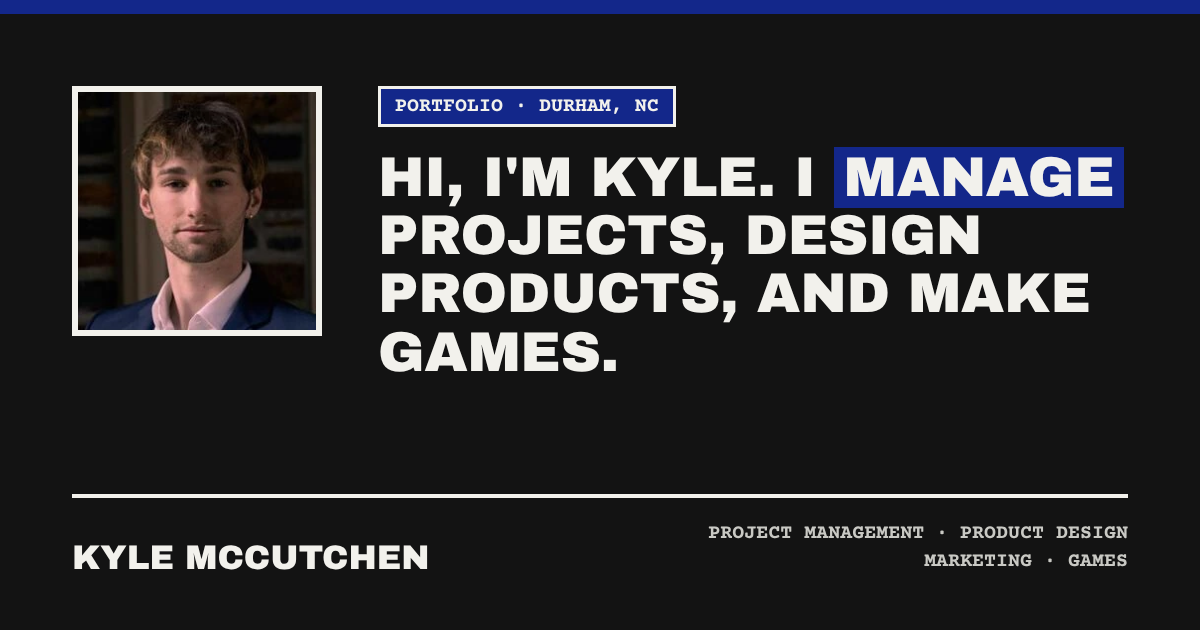
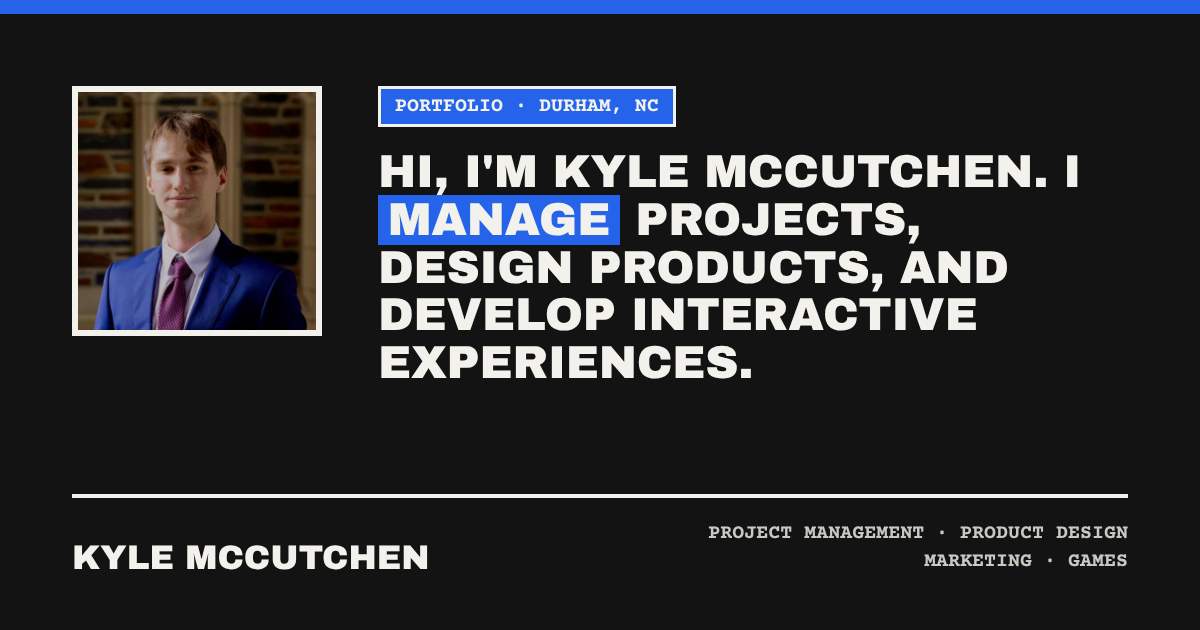
New headshot, Creative Director title, interactive experiences wording
Claude-Session: https://claude.ai/code/session_01KrK3kDgW3ZqdmRvWk1oTHi

diff --git a/game-dev/audio.html b/game-dev/audio.html
@@ -32,7 +32,7 @@
 <section class="hero"><div class="wrap" style="padding-block:56px;">
   <div class="tagbox">Audio design</div>
   <h1>Making <span class="flip">sound</span> for games</h1>
-  <p class="bio">I'm the Lead Audio Designer on Project Gravity, a two-year game we're making at Cosmic Labs with an 18-person team. Below is some of the sound library I've been building for it, plus a demo I made of reactive, spatial audio in Unreal Engine.</p>
+  <p class="bio">I'm Creative Director at Cosmic Labs, where I started as Lead Audio Designer on Project Gravity, a two-year game we're making with an 18-person team. Below is some of the sound library I've been building for it, plus a demo I made of reactive, spatial audio in Unreal Engine.</p>
 </div></section>
 
 <article class="cs-body"><div class="wrap">
@@ -40,11 +40,11 @@
   <section class="cs-section">
     <div>
       <h2><span class="n">Featured</span>Audio design process</h2>
-      <ul class="meta-list"><li>Project Gravity · Cosmic Labs</li><li>Lead Audio Designer · Project Manager</li><li>Manage 2 sound designers + 2 composers (UNCSA)</li><li>Ableton · Wwise · Unreal</li></ul>
+      <ul class="meta-list"><li>Project Gravity · Cosmic Labs</li><li>Creative Director · previously Lead Audio Designer &amp; PM</li><li>Manage 2 sound designers + 2 composers (UNCSA)</li><li>Ableton · Wwise · Unreal</li></ul>
     </div>
     <div class="proj-stack">
       <div class="yt"><iframe src="https://www.youtube-nocookie.com/embed/L_uDEit0hL8?rel=0" title="Audio design process" loading="lazy" allow="accelerometer; encrypted-media; gyroscope; picture-in-picture; fullscreen" allowfullscreen></iframe></div>
-      <p>For Gravity, I'm the lead audio designer and a project manager. Along with working with our 18-person team, I also manage a team of two sound designers and two composers from UNCSA.</p>
+      <p>For Gravity, I'm now Creative Director, and I started as the lead audio designer and a project manager. Along with working with our 18-person team, I also manage a team of two sound designers and two composers from UNCSA.</p>
       <p>This video shows my day-to-day process and full workflow pipeline: reviewing a task my team has completed, making any changes in Ableton, integrating it in Wwise, and finally bringing it into Unreal. I also show some of my sound design that's currently being used in the game.</p>
     </div>
   </section>
@@ -84,7 +84,7 @@
 <footer id="contact"><div class="wrap">
   <h2>Get in touch</h2>
   <div class="flinks"><a href="mailto:kwm26@duke.edu">kwm26@duke.edu</a><a href="https://www.linkedin.com/in/kyle-mccutchen/" target="_blank" rel="noopener">LinkedIn</a><a href="../assets/Kyle_McCutchen_Resume.pdf" target="_blank" rel="noopener">Resume (PDF)</a></div>
-  <div class="footer-row"><span>Kyle McCutchen — Durham, NC</span><span>Project Management · Product Design · Marketing · Games</span></div>
+  <div class="footer-row"><span>Kyle McCutchen — Durham, NC</span><span>Project Management · Product Design · Marketing · Interactive Experiences</span></div>
 </div></footer>
 
 <script src="../js/site.js?v=4"></script>

diff --git a/game-dev/index.html b/game-dev/index.html
@@ -40,11 +40,11 @@
   <section class="cs-section">
     <div>
       <h2><span class="n">Featured</span>Audio design process</h2>
-      <ul class="meta-list"><li>Project Gravity · Cosmic Labs</li><li>Lead Audio Designer · Project Manager</li><li>Manage 2 sound designers + 2 composers (UNCSA)</li><li>Ableton · Wwise · Unreal</li></ul>
+      <ul class="meta-list"><li>Project Gravity · Cosmic Labs</li><li>Creative Director · previously Lead Audio Designer &amp; PM</li><li>Manage 2 sound designers + 2 composers (UNCSA)</li><li>Ableton · Wwise · Unreal</li></ul>
     </div>
     <div class="proj-stack">
       <div class="yt"><iframe src="https://www.youtube-nocookie.com/embed/L_uDEit0hL8?rel=0" title="Audio design process" loading="lazy" allow="accelerometer; encrypted-media; gyroscope; picture-in-picture; fullscreen" allowfullscreen></iframe></div>
-      <p>For Gravity, I'm the lead audio designer and a project manager. Along with working with our 18-person team, I also manage a team of two sound designers and two composers from UNCSA.</p>
+      <p>For Gravity, I'm now Creative Director, and I started as the lead audio designer and a project manager. Along with working with our 18-person team, I also manage a team of two sound designers and two composers from UNCSA.</p>
       <p>This video shows my day-to-day process and full workflow pipeline: reviewing a task my team has completed, making any changes in Ableton, integrating it in Wwise, and finally bringing it into Unreal. I also show some of my sound design that's currently being used in the game.</p>
       <div class="linkrow"><a href="audio.html">More Gravity audio</a><a href="../production.html">How I run the production</a></div>
     </div>
@@ -102,7 +102,7 @@
 <footer id="contact"><div class="wrap">
   <h2>Get in touch</h2>
   <div class="flinks"><a href="mailto:kwm26@duke.edu">kwm26@duke.edu</a><a href="https://www.linkedin.com/in/kyle-mccutchen/" target="_blank" rel="noopener">LinkedIn</a><a href="../assets/Kyle_McCutchen_Resume.pdf" target="_blank" rel="noopener">Resume (PDF)</a></div>
-  <div class="footer-row"><span>Kyle McCutchen — Durham, NC</span><span>Project Management · Product Design · Marketing · Games</span></div>
+  <div class="footer-row"><span>Kyle McCutchen — Durham, NC</span><span>Project Management · Product Design · Marketing · Interactive Experiences</span></div>
 </div></footer>
 
 <script src="../js/site.js?v=4"></script>

diff --git a/index.html b/index.html
@@ -30,11 +30,11 @@
 </div></header>
 
 <section class="hero"><div class="wrap hero-grid">
-  <div class="headshot has-img"><img src="assets/img/headshot.webp" alt="Kyle McCutchen" width="240" height="240"></div>
+  <div class="headshot has-img"><img src="assets/img/headshot.webp?v=2" alt="Kyle McCutchen" width="240" height="240"></div>
   <div>
     <div class="tagbox">Durham, NC</div>
-    <h1>Hi, I'm Kyle McCutchen. I <span class="flip">manage</span> projects, design products, and develop games.</h1>
-    <p class="bio">I'm Chief Experience Officer at <strong>Athletic Training Portal</strong>, a sports-tech startup, where I work on product design, marketing, and the tools our team uses every day. I'm also the project manager and audio lead on <strong>Project Gravity</strong>, an 18-person team project, and a Master's of Engineering student at Duke. Here's some of what I've been working on.</p>
+    <h1>Hi, I'm Kyle McCutchen. I <span class="flip">manage</span> projects, design products, and develop interactive experiences.</h1>
+    <p class="bio">I'm Chief Experience Officer at <strong>Athletic Training Portal</strong>, a sports-tech startup, where I work on product design, marketing, and the tools our team uses every day. I'm also Creative Director of <strong>Cosmic Labs</strong>, a student game studio making <strong>Project Gravity</strong> with an 18-person team, and a Master's of Engineering student at Duke. Here's some of what I've been working on.</p>
     <div class="actions"><a class="primary" href="mailto:kwm26@duke.edu">Email me</a><a href="#work">See my work</a><a href="assets/Kyle_McCutchen_Resume.pdf" target="_blank" rel="noopener">Resume</a></div>
   </div>
 </div></section>
@@ -61,7 +61,7 @@
 <footer id="contact"><div class="wrap">
   <h2>Get in touch</h2>
   <div class="flinks"><a href="mailto:kwm26@duke.edu">kwm26@duke.edu</a><a href="https://www.linkedin.com/in/kyle-mccutchen/" target="_blank" rel="noopener">LinkedIn</a><a href="assets/Kyle_McCutchen_Resume.pdf" target="_blank" rel="noopener">Resume (PDF)</a></div>
-  <div class="footer-row"><span>Kyle McCutchen — Durham, NC</span><span>Project Management · Product Design · Marketing · Games</span></div>
+  <div class="footer-row"><span>Kyle McCutchen — Durham, NC</span><span>Project Management · Product Design · Marketing · Interactive Experiences</span></div>
 </div></footer>
 
 <script src="js/site.js?v=4"></script>

diff --git a/production.html b/production.html
@@ -40,10 +40,10 @@
   <section class="cs-section">
     <div>
       <h2><span class="n">01</span>Leading an 18-person team</h2>
-      <ul class="meta-list"><li>Lead Project Manager</li><li>Cosmic Labs</li><li>Aug 2025 – Present</li><li>Jira · Notion · Perforce</li></ul>
+      <ul class="meta-list"><li>Creative Director</li><li>Previously Lead Project Manager</li><li>Cosmic Labs</li><li>Aug 2025 – Present</li><li>Jira · Notion · Perforce</li></ul>
     </div>
     <div class="proj-stack">
-      <p>I'm the lead project manager on Project Gravity, a two-year student game with an 18-person team of designers, artists, engineers, and audio designers. Since we're all students, I can't just tell people what to do, so a big part of my job is making the process easy and useful enough that people actually want to use it.</p>
+      <p>I'm now Creative Director at Cosmic Labs, and I started as the lead project manager on Project Gravity, a two-year student game with an 18-person team of designers, artists, engineers, and audio designers. Since we're all students, I can't just tell people what to do, so a big part of my job is making the process easy and useful enough that people actually want to use it.</p>
       <ul class="facts-list">
         <li>I organized our first big outside playtest at UNC Greensboro with over 100 players, then turned their feedback into prioritized tasks for the next sprint.</li>
         <li>I got the audio team working in the same sprints as design and engineering, so sound wasn't always playing catch-up.</li>
@@ -119,7 +119,7 @@
 <footer id="contact"><div class="wrap">
   <h2>Get in touch</h2>
   <div class="flinks"><a href="mailto:kwm26@duke.edu">kwm26@duke.edu</a><a href="https://www.linkedin.com/in/kyle-mccutchen/" target="_blank" rel="noopener">LinkedIn</a><a href="assets/Kyle_McCutchen_Resume.pdf" target="_blank" rel="noopener">Resume (PDF)</a></div>
-  <div class="footer-row"><span>Kyle McCutchen — Durham, NC</span><span>Project Management · Product Design · Marketing · Games</span></div>
+  <div class="footer-row"><span>Kyle McCutchen — Durham, NC</span><span>Project Management · Product Design · Marketing · Interactive Experiences</span></div>
 </div></footer>
 
 <script src="js/site.js?v=4"></script>

diff --git a/front-end.html b/front-end.html
@@ -147,7 +147,7 @@
 <footer id="contact"><div class="wrap">
   <h2>Get in touch</h2>
   <div class="flinks"><a href="mailto:kwm26@duke.edu">kwm26@duke.edu</a><a href="https://www.linkedin.com/in/kyle-mccutchen/" target="_blank" rel="noopener">LinkedIn</a><a href="assets/Kyle_McCutchen_Resume.pdf" target="_blank" rel="noopener">Resume (PDF)</a></div>
-  <div class="footer-row"><span>Kyle McCutchen — Durham, NC</span><span>Project Management · Product Design · Marketing · Games</span></div>
+  <div class="footer-row"><span>Kyle McCutchen — Durham, NC</span><span>Project Management · Product Design · Marketing · Interactive Experiences</span></div>
 </div></footer>
 
 <script src="js/site.js?v=4"></script>
